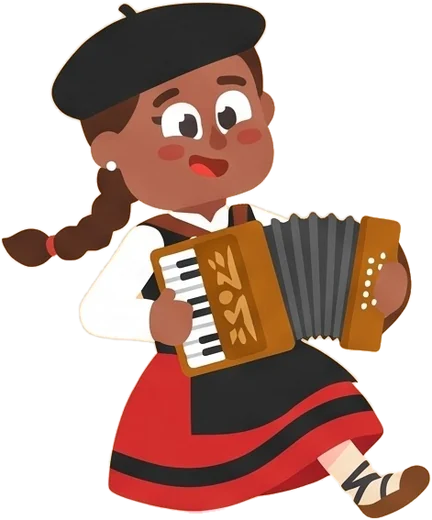
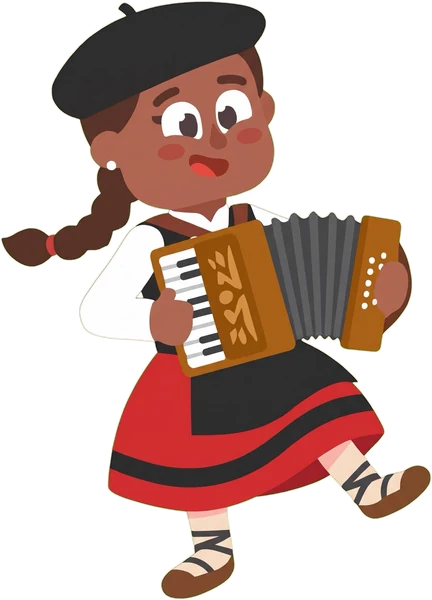
Ikasi! v1.10: unidad A1-10 Nola dago? (incluye v1.9.2–v1.9.4)
- index.html regenerado con ikasi/tools/pwa.py desde el artefacto v1.10
- img: Ane y Uxue recortadas de nuevo (cuerpo entero), Miren y Uxue volteadas
- decks.json: ficha nueva egoerak-ika (7 fichas)
- sw.js: CACHE ikasi-v7

Claude-Session: https://claude.ai/code/session_01JxgRkZSm8m6UVqpWinD4EY

diff --git a/ikasi/index.html b/ikasi/index.html
@@ -417,7 +417,7 @@ const UNITS = [
   vocab:[
     ['kaixo','hola'],['agur','adiós'],['egun on','buenos días','Por la mañana, hasta la hora de comer'],
     ['arratsalde on','buenas tardes'],['gabon','buenas noches','Sirve para saludar y despedirse de noche'],
-    ['gero arte','hasta luego'],['bihar arte','hasta mañana'],['ikusi arte','hasta la vista'],['laster arte','hasta pronto'],['aspaldiko!','¡cuánto tiempo!'],['baita zuri ere','igualmente'],['hepa','hola (informal)'],['eskerrik asko','muchas gracias'],
+    ['gero arte','hasta luego'],['bihar arte','hasta mañana'],['ikusi arte','hasta la vista'],['laster arte','hasta pronto'],['aspaldiko!','¡cuánto tiempo!'],['baita zuri ere','igualmente'],['epa','hola (informal)','También aupa, aupi o hepa. Kaixo es el «hola» neutro'],['eskerrik asko','muchas gracias'],
     ['ez horregatik','de nada'],['mesedez','por favor'],['barkatu','perdón / disculpa'],
     ['bai','sí'],['ez','no'],['ongi etorri','bienvenido/a'],['zer moduz?','¿qué tal?'],
     ['ondo','bien'],['oso ondo','muy bien'],['nahiko ondo','bastante bien'],['gaizki','mal'],['eta zu?','¿y tú?']
@@ -1221,13 +1221,163 @@ const UNITS = [
     ['Irakaslea berandu iritsi da','La profesora ha llegado tarde'],
     ['Haiek etxera itzuli dira','Ellos han vuelto a casa']
   ]
+},
+{ id:'a1-ego', ch:'patxi', level:'A1', title:'Nola dago?', sub:'Cómo está · egon (nago, zaude, dago…) · estados · Nolakoa? ≠ Nola?',
+  split:[15,15,15],
+  vocab:[
+    ['nago','(yo) estoy — egon','Etxean nago: estoy en casa'],
+    ['zaude','(tú) estás — egon','Nola zaude? ¿Cómo estás?'],
+    ['dago','(él/ella) está — egon','Jon triste dago'],
+    ['gaude','(nosotros) estamos — egon','Gu pozik gaude'],
+    ['zaudete','(vosotros) estáis — egon','Zuek urduri zaudete'],
+    ['daude','(ellos) están — egon','En Bizkaia se oye dagoz; en batua, daude'],
+    ['Nola zaude?','¿Cómo estás?'],
+    ['Zer moduz zaude?','¿Qué tal estás?','Respuesta: Ondo nago, eta zu?'],
+    ['Nola dago?','¿Cómo está (él/ella)?','No confundir con Nolakoa da? (cómo es)'],
+    ['primeran','genial, de maravilla','Primeran nago!'],
+    ['ez oso ondo','no muy bien','Ez nago oso ondo: no estoy muy bien'],
+    ['erdipurdi','regular, así así','Nola zaude? — Erdipurdi'],
+    ['hobeto','mejor','Gaur hobeto nago: hoy estoy mejor'],
+    ['pozik','(estar) contento/a','Siempre sin artículo: pozik nago, pozik gaude'],
+    ['haserre','(estar) enfadado/a','Zergatik zaude haserre? ¿Por qué estás enfadado?'],
+    ['triste','(estar) triste','Con egon, sin -a: triste dago. Tristea da = es una persona triste'],
+    ['alai','(estar) alegre','Alai dago = hoy está alegre; alaia da = es alegre'],
+    ['lasai','(estar) tranquilo/a','También para calmar a alguien: Lasai!'],
+    ['urduri','(estar) nervioso/a','Azterketa baino lehen urduri nago'],
+    ['nekatuta','(estar) cansado/a','nekatu (cansarse) + -ta'],
+    ['harrituta','(estar) sorprendido/a','harritu (sorprenderse) + -ta'],
+    ['aspertuta','(estar) aburrido/a','Aspergarria da = es aburrido (izan)'],
+    ['beldurtuta','(estar) asustado/a','beldur (miedo) → beldurtu → beldurtuta'],
+    ['kezkatuta','(estar) preocupado/a','kezka (preocupación)'],
+    ['maiteminduta','(estar) enamorado/a','maite (amor) + min (dolor)'],
+    ['lanpetuta','(estar) ocupado/a','Orain lanpetuta nago: ahora estoy liado'],
+    ['gaixorik','(estar) enfermo/a','gaixo + -rik. Gaixoa = el enfermo (persona)'],
+    ['lotan','(estar) dormido/a','Umea lotan dago'],
+    ['esna','(estar) despierto/a','Lo contrario de lotan'],
+    ['negarrez','(estar) llorando','negar (llanto) + -rez'],
+    ['isilik','(estar) callado/a','Isilik egon! ¡Estate callado! Isila da = es callado'],
+    ['zutik','(estar) de pie','Joseba zutik dago'],
+    ['eserita','(estar) sentado/a','eseri (sentarse) + -ta'],
+    ['etzanda','(estar) tumbado/a','etzan (tumbarse) + -da'],
+    ['garbi','(estar) limpio/a','Katua garbia da (es limpio) ≠ katua garbi dago (está limpio)'],
+    ['zikin','(estar) sucio/a','Txerriak zikin daude'],
+    ['itxita','(estar) cerrado/a','Dendak itxita daude'],
+    ['irekita','(estar) abierto/a','Atea irekita dago'],
+    ['apurtuta','(estar) roto/a','Betaurrekoak apurtuta daude'],
+    ['konponduta','(estar) arreglado/a','konpondu (arreglar) + -ta'],
+    ['bustita','(estar) mojado/a','busti (mojar) + -ta'],
+    ['lehor','(estar) seco/a','Arropa lehor dago'],
+    ['prest','(estar) listo/a, preparado/a','Prest zaude? ¿Estás listo?'],
+    ['bizirik','(estar) vivo/a','bizi + -rik'],
+    ['hilda','(estar) muerto/a','hil (morir) + -da']
+  ],
+  grammar:[
+    { t:'EGON: nago, zaude, dago…', h:`
+      <p><b>Egon</b> es «estar». Sirve para decir <b>cómo</b> está alguien o algo ahora y <b>dónde</b> está.</p>
+      <table><tr><th>Sujeto</th><th>Egon</th><th>Castellano</th></tr>
+      <tr><td>ni</td><td><b>nago</b></td><td>estoy</td></tr>
+      <tr><td>zu</td><td><b>zaude</b></td><td>estás</td></tr>
+      <tr><td>hura</td><td><b>dago</b></td><td>está</td></tr>
+      <tr><td>gu</td><td><b>gaude</b></td><td>estamos</td></tr>
+      <tr><td>zuek</td><td><b>zaudete</b></td><td>estáis</td></tr>
+      <tr><td>haiek</td><td><b>daude</b></td><td>están</td></tr></table>
+      <p>Fíjate: el sujeto va <b>sin -k</b> (es NOR, como con izan): <i>ni nago</i>, nunca «nik nago».</p>
+      <div class="ex"><b>Etxean nago.</b><span>Estoy en casa.</span></div>
+      <div class="ex"><b>Afrika oso urruti dago.</b><span>África está muy lejos.</span></div>
+      <div class="ex"><b>Zenbat ikasle daude? — Hamar.</b><span>¿Cuántos alumnos hay? — Diez.</span></div>
+      <p>El «dónde» (<i>Non dago?</i>) se ve a fondo en la unidad <i>Non dago?</i>.</p>
+      <div class="warn">En Bizkaia oirás <i>dagoz</i> por <b>daude</b> y <i>zagoz</i> por <b>zaude</b>. En batua: <b>daude</b>, <b>zaude</b>.</div>` },
+    { t:'Zer moduz zaude?', h:`
+      <p>Para preguntar qué tal está alguien:</p>
+      <div class="ex"><b>Zer moduz zaude? / Nola zaude?</b><span>¿Qué tal estás? / ¿Cómo estás?</span></div>
+      <p>Respuestas, de mejor a peor:</p>
+      <table><tr><th>Euskera</th><th>Castellano</th></tr>
+      <tr><td><b>Primeran</b> nago</td><td>estoy genial</td></tr>
+      <tr><td><b>Oso ondo</b> nago</td><td>estoy muy bien</td></tr>
+      <tr><td><b>Ondo</b> nago</td><td>estoy bien</td></tr>
+      <tr><td><b>Nahiko ondo</b> nago</td><td>estoy bastante bien</td></tr>
+      <tr><td><b>Erdipurdi</b> nago</td><td>estoy regular</td></tr>
+      <tr><td><b>Ez nago oso ondo</b></td><td>no estoy muy bien</td></tr>
+      <tr><td><b>Gaizki</b> nago</td><td>estoy mal</td></tr></table>
+      <div class="ex"><b>Ni oso ondo nago, eta zuek zer moduz zaudete?</b><span>Yo estoy muy bien, ¿y vosotros qué tal estáis?</span></div>
+      <div class="warn"><b>Ondo</b> (bien) no es <b>ona</b> (bueno): <i>ondo nago</i> = estoy bien; <i>ona da</i> = es bueno.</div>` },
+    { t:'Izan con -a, egon sin -a', h:`
+      <p>Con <b>izan</b> (es) el adjetivo lleva artículo. Con <b>egon</b> (está) va <b>sin artículo</b>, y no cambia en plural:</p>
+      <table><tr><th>Nolakoa da? (izan)</th><th>Nola dago? (egon)</th></tr>
+      <tr><td>Katu<b>a</b> garbi<b>a</b> da</td><td>Katu<b>a</b> garbi dago</td></tr>
+      <tr><td>Txerri<b>ak</b> zikin<b>ak</b> dira</td><td>Txerri<b>ak</b> zikin daude</td></tr>
+      <tr><td>Garbi<b>a</b> naiz</td><td>Garbi nago</td></tr>
+      <tr><td>Garbi<b>ak</b> gara</td><td>Garbi gaude</td></tr></table>
+      <p>El nombre (<i>katua, txerriak</i>) sí lleva su artículo; lo que se queda desnudo es el adjetivo que va con egon.</p>
+      <div class="warn">«Gu tristeak gaude» es incorrecto: <b>Gu triste gaude</b>. Y «Ni pozika nago» tampoco: <b>pozik nago</b>.</div>` },
+    { t:'Palabras en -ta, -ik y -rez', h:`
+      <p>Muchas palabras de estado ya tienen su propia terminación. Se usan tal cual con egon, nunca con -a ni -ak:</p>
+      <table><tr><th>Terminación</th><th>Ejemplos</th></tr>
+      <tr><td>verbo + <b>-ta / -da</b> (como «-ado» en castellano)</td><td>nekatu → nekatu<b>ta</b>, itxi → itxi<b>ta</b>, eseri → eseri<b>ta</b>, hil → hil<b>da</b>, etzan → etzan<b>da</b></td></tr>
+      <tr><td><b>-(r)ik</b></td><td>poz<b>ik</b>, gaixo<b>rik</b>, isil<b>ik</b>, bizi<b>rik</b>, zut<b>ik</b></td></tr>
+      <tr><td><b>-(r)ez</b></td><td>negar<b>rez</b> (llorando)</td></tr></table>
+      <div class="ex"><b>Neska horiek nekatuta daude.</b><span>Esas chicas están cansadas.</span></div>
+      <div class="ex"><b>Amona gaixorik dago.</b><span>La abuela está enferma.</span></div>
+      <p>La <b>-a</b> final de <i>nekatuta</i> no es un artículo: es parte de la palabra. Por eso no se quita y no pasa a «nekatutak».</p>` },
+    { t:'Nolakoa? ≠ Nola?', h:`
+      <p>Con la misma palabra cambia el sentido: <b>da</b> habla de cómo <b>es</b> (carácter, siempre); <b>dago</b>, de cómo <b>está</b> ahora.</p>
+      <table><tr><th>Es (izan)</th><th>Está (egon)</th></tr>
+      <tr><td>Ane alai<b>a da</b> — es alegre</td><td>Ane alai <b>dago</b> — está alegre</td></tr>
+      <tr><td>Lasai<b>a naiz</b> — soy tranquilo</td><td>Lasai <b>nago</b> — estoy tranquilo</td></tr>
+      <tr><td>Isil<b>ak zarete</b> — sois callados</td><td>Isil<b>ik zaudete</b> — estáis callados</td></tr>
+      <tr><td>Triste<b>a zara</b> — eres triste</td><td>Triste <b>zaude</b> — estás triste</td></tr></table>
+      <p>Y la pregunta va a juego:</p>
+      <div class="ex"><b>Jon triste dago. → Nola dago Jon?</b><span>Jon está triste. → ¿Cómo está Jon?</span></div>
+      <div class="ex"><b>Marta argala da. → Nolakoa da Marta?</b><span>Marta es delgada. → ¿Cómo es Marta?</span></div>` },
+    { t:'Ez nago…, …zaude?', h:`
+      <p>En la negativa, <b>ez + egon</b> salta delante y el estado va detrás:</p>
+      <div class="ex"><b>Nekatuta nago. → Ez nago nekatuta.</b><span>Estoy cansado. → No estoy cansado.</span></div>
+      <div class="ex"><b>Marta ez dago lotan.</b><span>Marta no está dormida.</span></div>
+      <p>Para preguntar, basta con la entonación:</p>
+      <div class="ex"><b>Nekatuta zaude? — Bai, nekatuta nago. / Ez, ez nago nekatuta.</b><span>¿Estás cansado? — Sí, lo estoy. / No, no lo estoy.</span></div>
+      <p>Para graduar, igual que con izan: <i>oso urduri nago</i>, <i>nahiko lasai dago</i>, <i>ez nago batere urduri</i> (nada nervioso).</p>` }
+  ],
+  drills:[
+    { q:'«Estoy cansado»', s:'Nekatuta ___', o:['nago','naiz','dago'], a:0 },
+    { q:'«¿Cómo estás?»', s:'Nola ___?', o:['zaude','zara','dago'], a:0 },
+    { q:'«Estamos contentos»', s:'Gu pozik ___', o:['gaude','gara','daude'], a:0 },
+    { q:'«Estáis nerviosos»', s:'Zuek urduri ___', o:['zaudete','zarete','zaude'], a:0 },
+    { q:'«Las tiendas están cerradas»', s:'Dendak itxita ___', o:['daude','dira','dago'], a:0 },
+    { q:'Es su carácter:', s:'Maite ___ da', o:['alaia','alai','alaiak'], a:0 },
+    { q:'Hoy, ahora:', s:'Umea ___ dago', o:['alai','alaia','alaiak'], a:0 },
+    { q:'Katua garbia da ≠', s:'Katua ___ dago', o:['garbi','garbia','garbiak'], a:0 },
+    { q:'Plural con egon:', s:'Txerriak ___ daude', o:['zikin','zikinak','zikina'], a:0 },
+    { q:'Plural con izan:', s:'Txerriak ___ dira', o:['zikinak','zikin','zikina'], a:0 },
+    { q:'La pregunta que va con la respuesta:', s:'Jon triste dago. ___ Jon?', o:['Nola dago','Nolakoa da','Nor da'], a:0 },
+    { q:'La pregunta que va con la respuesta:', s:'Marta argala da. ___ Marta?', o:['Nolakoa da','Nola dago','Nongoa da'], a:0 },
+    { q:'«No estoy cansado»', s:'___ nekatuta', o:['Ez nago','Nago ez','Ez naiz'], a:0 },
+    { q:'«Estamos tranquilos» (ahora)', s:'Gu ___ gaude', o:['lasai','lasaiak','lasaia'], a:0 },
+    { q:'«Están cansadas»', s:'Neska horiek ___ daude', o:['nekatuta','nekatutak','nekatua'], a:0 },
+    { q:'«Muy bien»', s:'Zer moduz zaude? — Oso ___ nago', o:['ondo','ona','onak'], a:0 },
+    { q:'«La abuela está enferma»', s:'Amona ___ dago', o:['gaixorik','gaixoa','gaixoak'], a:0 },
+    { q:'«Estoy contento»', s:'Ni ___ nago', o:['pozik','pozika','pozikoa'], a:0 }
+  ],
+  sentences:[
+    ['Nola zaude?','¿Cómo estás?'],
+    ['Ni oso ondo nago','Yo estoy muy bien'],
+    ['Gaur nekatuta nago','Hoy estoy cansado'],
+    ['Jon triste dago','Jon está triste'],
+    ['Gu pozik gaude','Nosotros estamos contentos'],
+    ['Dendak itxita daude','Las tiendas están cerradas'],
+    ['Ane alaia da baina gaur triste dago','Ane es alegre pero hoy está triste'],
+    ['Ez nago batere urduri','No estoy nada nervioso'],
+    ['Umea lotan dago','El niño está dormido'],
+    ['Zuek oso lanpetuta zaudete','Vosotros estáis muy ocupados'],
+    ['Katua garbia da baina orain zikin dago','El gato es limpio pero ahora está sucio'],
+    ['Amona gaixorik dago','La abuela está enferma'],
+    ['Nekatuta zaude?','¿Estás cansado?']
+  ]
 }
 ];
 
 /* Temario pendiente (se mostrará bloqueado) */
 const ROADMAP = [
   ['A1','Familia','la familia · posesivos · genitivo -ren'],
-  ['A1','Nola dago?','egon (estar) · estados · Nolakoa? ≠ Nola?'],
   ['A1','Non dago?','-an / -ean / -etan · aurrean, atzean, gainean…'],
   ['A1','Ordua eta egutegia','la hora · días · meses · estaciones'],
   ['A1','Arropa','ropa y complementos'],
@@ -1285,6 +1435,11 @@ async function flush(){
 
 /* índice de palabras */
 let WORDS = {};          // key -> {eu,es,note,src}
+/* Respuestas alternativas aceptadas al escribir (clave = forma principal) */
+const ALTS={
+  'epa':['hepa','aupa','aupi','apa'],
+  'baita zuri ere':['berdin','bardin','zuri ere','bai eta zuri ere','baita zuri be']
+};
 function W(arr,src){ return {eu:arr[0],es:arr[1],note:arr[2]||'',src} }
 UNITS.forEach(u=>{ u.words=u.vocab.map(v=>W(v,u.id)); });
 function allDecks(){ return [...CLOUD_DECKS, ...S.userDecks] }
@@ -1769,13 +1924,14 @@ function rType(it,body){
   const tb=$('#tb'); setTimeout(()=>tb.focus(),250);
   setBtn('Comprobar',false,null);
   const check=()=>{
-    const raw=norm(tb.value), targets=w.eu.split('/').map(norm);
+    const raw=norm(tb.value), main=w.eu.split('/').map(norm), targets=[...main,...(ALTS[norm(w.eu)]||[]).map(norm)];
     const sj=subjCheck(raw,targets), a=sj.rest;
     let ok=targets.includes(a), near=false;
     if(!ok && targets.some(t=>t.length>4 && lev(a,t)<=1)){ ok=true; near=true }
     const subj=subjFor(targets[0]);
     let fb='';
     if(ok && sj.bad){ ok=false; fb=`Con <b>${esc(subj.v)}</b> el sujeto es <b>${esc(subj.p[0])}</b>${subj.erg?' (NORK, con -k)':' (NOR, sin -k)'}. Correcto: <b>${esc(subj.p[0]+' '+w.eu)}</b>`; }
+    else if(ok && !near && !main.includes(sj.rest)) fb=`También vale. Forma de referencia: <b>${esc(w.eu)}</b>`;
     else if(ok) fb=near?`Casi perfecto. Se escribe: <b>${esc(sj.pron?sj.pron+' '+w.eu:w.eu)}</b>`:'';
     else fb=`Correcto: <b>${esc(w.eu)}</b>`+(subj?` <span style="opacity:.75">(o ${esc(subj.p[0]+' '+w.eu)})</span>`:'');
     tb.disabled=true;

diff --git a/ikasi/sw.js b/ikasi/sw.js
@@ -1,6 +1,6 @@
 // Ikasi! funciona sin conexión: guarda la app, las imágenes y las fuentes en caché.
 // Al cambiar cualquier archivo, sube el número de CACHE.
-const CACHE = "ikasi-v6";
+const CACHE = "ikasi-v7";
 const CORE = [
   "./", "index.html", "manifest.webmanifest", "decks.json",
   "icon-180.png", "icon-192.png", "icon-512.png", "icon-maskable-512.png",
